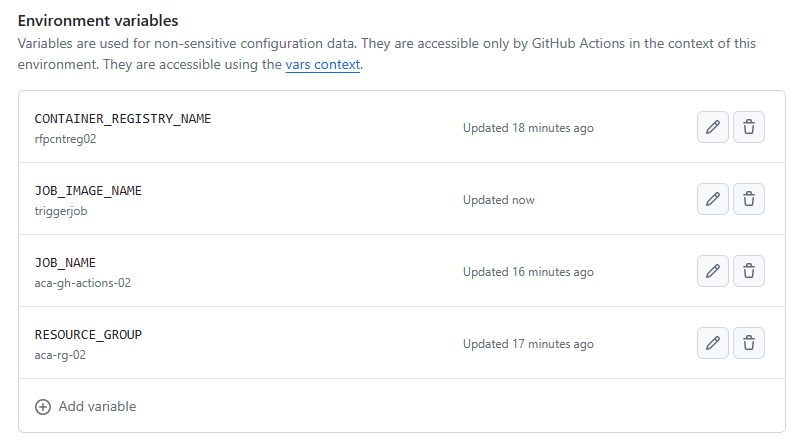
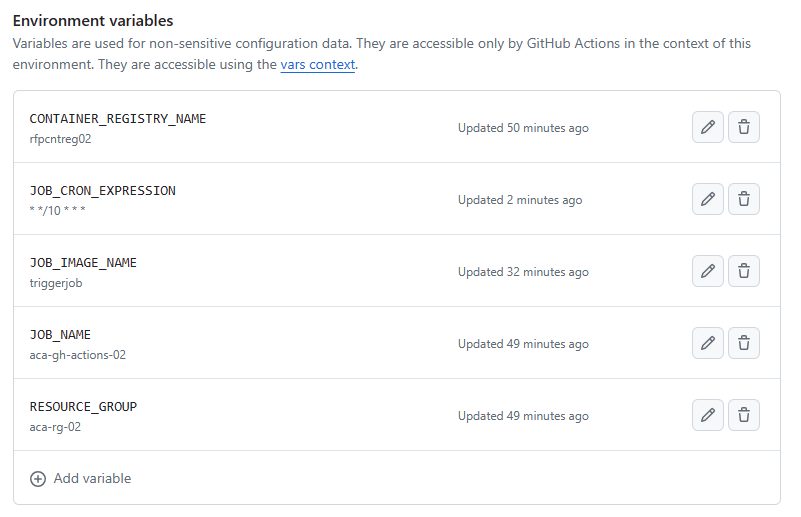
Wave 8

diff --git a/README.md b/README.md
@@ -68,6 +68,7 @@ And create the following variables:
 - *CONTAINER_REGISTRY_NAME*: the name of the Azure Container registry to be created/used to store container images (.e.g., rfpacr02)
 - *JOB_NAME*: the name of the container app job to be deployed (e.g., aca-gh-actions-02)
 - *JOB_IMAGE_NAME*: the name of the container image to build and push (e.g., triggerjob)
+- *JOB_CRON_EXPRESSION*: the cron expression for the schedule trigger (e.g., * */10 * * *)
 
 Example:
 
